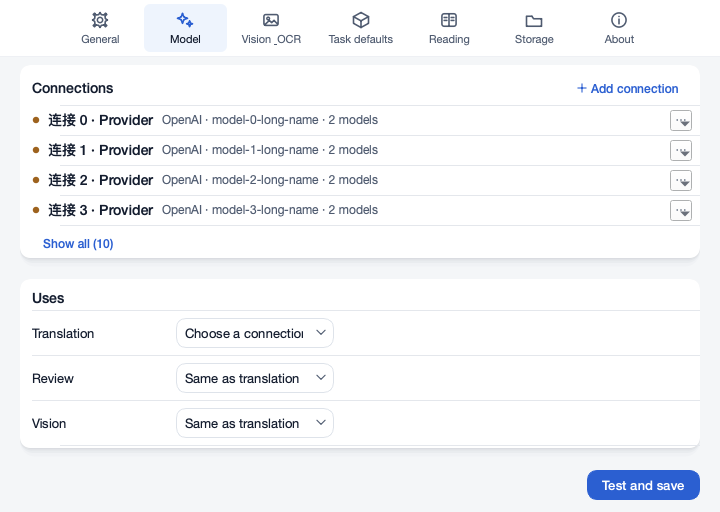
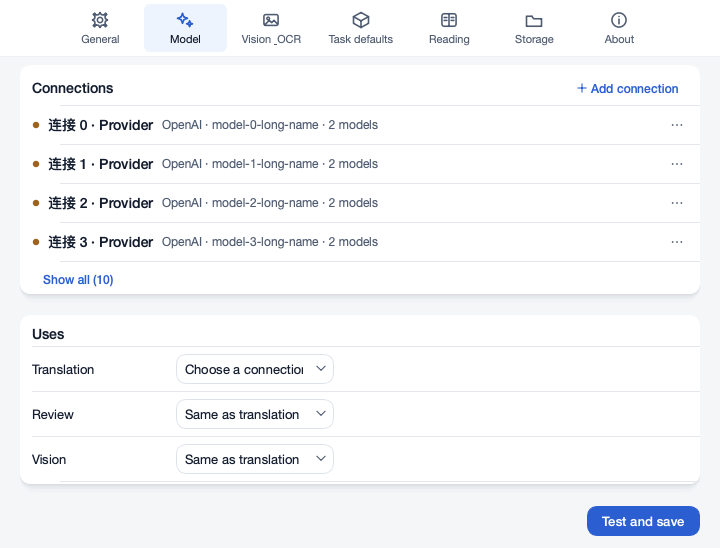
fix(0.8.3): clean connection more button and keep top edge on height change (#533 review)

diff --git a/folith/qt/dialogs.py b/folith/qt/dialogs.py
@@ -169,6 +169,8 @@ class EngineDialog(QDialog):
         self.language_preference = i18n.language()
         self.academic_preference = False
         self._loading = True
+        #: #517：首次显示才居中一次；之后的高度变化只动底边，顶边保持不动。
+        self._centered_once = False
 
         from .settings_pages import AboutPage, ReadingPage, StoragePage
 
@@ -254,8 +256,9 @@ class EngineDialog(QDialog):
         from . import macwindow
 
         macwindow.hide_when_app_inactive(self)
-        # 首次显示时窗口管理器可能已把它放到了靠下的位置；按当前屏幕重新夹一遍。
-        self._clamp_to_screen()
+        # 首次显示时窗口管理器可能已把它放到了靠下的位置：只在这里居中一次。
+        self._clamp_to_screen(recenter=not self._centered_once)
+        self._centered_once = True
         # 页面 sizeHint 要等第一次布局才算得准：构造期 _fit_height 拿到的是旧值，
         # 会按偏矮的内容把窗口定死，「用途」因此要滚动才看得见。布局完成后再量一次。
         QTimer.singleShot(0, self, self._refit_after_show)
@@ -282,13 +285,16 @@ class EngineDialog(QDialog):
         widget = self.stack.currentWidget()
         return next((key for key, page in self.pages.items() if page is widget), "general")
 
-    def _clamp_to_screen(self) -> None:
-        """把整窗（含标题栏）夹进当前屏幕的可用区域并居中。
+    def _clamp_to_screen(self, *, recenter: bool = False) -> None:
+        """把整窗（含标题栏）夹进当前屏幕的可用区域。
 
         `QScreen.availableGeometry()` 已经排除了 macOS 的 Dock / 菜单栏和
         Windows 的任务栏，所以一个跨平台的 Qt 调用就够；共享界面里不写
-        任何平台专属代码（`AGENTS.md`）。主窗口完整落在可用区域内时优先
-        相对它居中，否则退回到可用区域本身居中。
+        任何平台专属代码（`AGENTS.md`）。
+
+        `recenter=True` 只在首次显示时用：相对主窗口（放得下时）或可用区居中。
+        其余情况（尤其高度动画的每一帧）保持顶边/左边不动，只有底边或右边
+        超出可用区时才上推/左移——macOS 设置窗口是顶边固定、往下伸缩的。
         """
         screen = self.screen() or QGuiApplication.primaryScreen()
         if screen is None:
@@ -304,25 +310,32 @@ class EngineDialog(QDialog):
         if (width, height) != (client.width(), client.height()):
             self.resize(width, height)
             frame = self.frameGeometry()
-        parent = self.parentWidget()
-        anchor = parent.frameGeometry() if parent is not None and parent.isVisible() else QRect()
-        if not anchor.isValid() or not area.contains(anchor):
-            anchor = area
-        center = anchor.center()
-        frame_x = center.x() - frame.width() // 2
-        frame_y = center.y() - frame.height() // 2
+        if recenter:
+            parent = self.parentWidget()
+            anchor = parent.frameGeometry() if parent is not None and parent.isVisible() else QRect()
+            if not anchor.isValid() or not area.contains(anchor):
+                anchor = area
+            center = anchor.center()
+            frame_x = center.x() - frame.width() // 2
+            frame_y = center.y() - frame.height() // 2
+        else:
+            frame_x, frame_y = frame.left(), frame.top()
         # right()/bottom() 是闭区间，所以能放下的最靠右/下位置要 +1。
         frame_x = max(area.left(), min(frame_x, area.right() - frame.width() + 1))
         frame_y = max(area.top(), min(frame_y, area.bottom() - frame.height() + 1))
-        # move() 收的是 widget 左上角，frameGeometry() 含装饰：把差值减回去。
-        delta = frame.topLeft() - self.geometry().topLeft()
-        self.move(frame_x - delta.x(), frame_y - delta.y())
+        # move() 对顶层窗口定位的就是整窗（含装饰）左上角；个别平台会差一个
+        # 装饰偏移，按实际 frameGeometry 再校正一次，避免每次夹取都漂移几像素。
+        self.move(frame_x, frame_y)
+        actual = self.frameGeometry().topLeft()
+        if actual.x() != frame_x or actual.y() != frame_y:
+            self.move(self.x() + frame_x - actual.x(), self.y() + frame_y - actual.y())
 
     def _fit_height(self) -> None:
         """窗口高度随当前页的内容伸缩（macOS 设置窗口的行为），不超出屏幕。
 
         `resize()` 从当前顶边往下长：窗口若原本开得靠下，底部（含「测试并保存」）
-        就会被 Dock / 任务栏挡住。所以每次高度变化后都重新夹回可用区域并居中。
+        就会被 Dock / 任务栏挡住。所以每次高度变化后都夹回可用区域；居中只在
+        首次显示做一次，之后顶边不动，避免切换页面时窗口上下跳。
         """
         page = self.stack.currentWidget()
         inner = page.widget() if isinstance(page, QScrollArea) else page

diff --git a/tests/qt_settings_fit_test.py b/tests/qt_settings_fit_test.py
@@ -18,7 +18,7 @@ os.environ.setdefault("QT_QPA_PLATFORM", "offscreen")
 os.environ["FOLITH_QT_NONINTERACTIVE"] = "1"
 
 pytest.importorskip("PySide6")
-from PySide6.QtCore import QRect  # noqa: E402
+from PySide6.QtCore import QRect, Qt  # noqa: E402
 from PySide6.QtWidgets import (QApplication, QHBoxLayout, QLabel, QPushButton,  # noqa: E402
                                QScrollArea, QToolButton)
 
@@ -59,30 +59,57 @@ def _dialog(connections: int = 0) -> dialogs.EngineDialog:
 
 # ------------------------------------------------------------- 几何 ----------
 
-def test_height_change_clamps_the_whole_window_into_available_area(app, monkeypatch):
+def test_height_change_clamps_without_recentering(app, monkeypatch):
+    """未显示时的高度变化只夹回可用区，不提前居中（居中留给首次显示）。"""
     dialog = _dialog(connections=10)
     monkeypatch.setattr(dialog, "screen", lambda: _FakeScreen(AREA))
     try:
-        # 窗口原本开在屏幕下方：resize 往下长会把底部按钮推到 Dock 后面。
         dialog.move(900, 1200)
         dialog.show_page("models")
         app.processEvents()
-        frame = dialog.frameGeometry()
-        assert AREA.contains(frame), (frame, AREA)
-        assert abs(frame.center().x() - AREA.center().x()) <= 2
-        assert abs(frame.center().y() - AREA.center().y()) <= 2
+        assert AREA.contains(dialog.frameGeometry()), dialog.frameGeometry()
+        assert abs(dialog.frameGeometry().center().x() - AREA.center().x()) > 2
     finally:
         dialog.close()
 
 
-def test_first_show_recenters_a_window_opened_below_the_screen(app, monkeypatch):
+def test_first_show_centres_a_window_opened_below_the_screen(app, monkeypatch):
     dialog = _dialog(connections=10)
     monkeypatch.setattr(dialog, "screen", lambda: _FakeScreen(AREA))
     try:
         dialog.move(400, 2000)
         dialog.show()
         app.processEvents()
-        assert AREA.contains(dialog.frameGeometry()), dialog.frameGeometry()
+        frame = dialog.frameGeometry()
+        assert AREA.contains(frame), frame
+        assert abs(frame.center().x() - AREA.center().x()) <= 2
+        assert abs(frame.center().y() - AREA.center().y()) <= 2
+    finally:
+        dialog.close()
+
+
+def test_height_change_keeps_the_top_edge_when_the_screen_fits(app, monkeypatch):
+    """#533 返修：切到更高的页时窗口顶边不动，只有底边往下长。"""
+    dialog = _dialog(connections=0)
+    monkeypatch.setattr(dialog, "screen", lambda: _FakeScreen(AREA))
+    try:
+        dialog.show()
+        app.processEvents()
+        top_before = dialog.frameGeometry().top()
+        height_before = dialog.height()
+        library = dialog.connection_library
+        library.profiles = [
+            {"id": f"c{i}", "name": f"连接 {i}", "provider": "OpenAI",
+             "model": f"model-{i}", "api_key": f"k{i}", "base_url": "",
+             "models": [f"model-{i}"], "custom": False}
+            for i in range(10)
+        ]
+        library.refresh()
+        dialog.show_page("models")
+        app.processEvents()
+        assert dialog.height() > height_before, (height_before, dialog.height())
+        assert dialog.frameGeometry().top() == top_before
+        assert AREA.contains(dialog.frameGeometry())
     finally:
         dialog.close()
 
@@ -142,6 +169,10 @@ def test_connection_rows_use_one_line_and_a_row_menu(app):
             assert actions is not None and actions.menu() is not None
             labels = [action.text() for action in actions.menu().actions()]
             assert "编辑" in labels and "删除" in labels
+            # #533 返修：干净的 more 图标按钮，不叠下拉箭头、不带文字。
+            assert actions.objectName() == "iconButton"
+            assert actions.toolButtonStyle() == Qt.ToolButtonStyle.ToolButtonIconOnly
+            assert not actions.text()
     finally:
         dialog.close()
 

diff --git a/folith/qt/connection_library.py b/folith/qt/connection_library.py
@@ -564,9 +564,12 @@ class ConnectionLibrary(QWidget):
         row.addWidget(state, 0, Qt.AlignmentFlag.AlignVCenter)
         # 编辑 / 删除收进「⋯」：一行里不再摆两个整按钮（#517）。
         actions = QToolButton()
-        actions.setIcon(icons.icon("more", 14, "text-secondary"))
-        actions.setIconSize(QSize(14, 14))
-        actions.setAccessibleName(i18n.tr('连接操作'))
+        actions.setObjectName("iconButton")   # 与行内图标按钮同款：无边框，且 QSS 去掉菜单箭头
+        actions.setToolButtonStyle(Qt.ToolButtonStyle.ToolButtonIconOnly)
+        actions.setIcon(icons.icon("more", 16, "text-secondary"))
+        actions.setIconSize(QSize(16, 16))
+        actions.setCursor(Qt.CursorShape.PointingHandCursor)
+        actions.setAccessibleName(i18n.tr('{v0} 的更多操作', v0=p["name"]))
         actions.setToolTip(i18n.tr('连接操作'))
         actions.setPopupMode(QToolButton.ToolButtonPopupMode.InstantPopup)
         menu = QMenu(actions)

diff --git a/docs/evidence/0.8.3-c517-settings-fit.md b/docs/evidence/0.8.3-c517-settings-fit.md
@@ -53,6 +53,17 @@ QT_QPA_PLATFORM=offscreen venv/bin/python -m pytest \
 原先断言「保存按钮在页内」，与本次「操作固定到页外」的意图冲突，已更新为断言页内没有保存
 按钮、且唯一保存按钮在 `_pinned_actions` 内；该文件 68 passed。
 
+## C-2 返修（监工 2026-11-19 08:23 核对）
+
+1. **「⋯」按钮**：改用主题里已有的 `QToolButton#iconButton` 样式（与交付面板的更多操作同款），
+   `ToolButtonIconOnly` + 16px more 图标 + `InstantPopup`；QSS 已去掉菜单指示箭头和边框。
+   亮/暗截图已重拍，见上表。此项无新增 locale 字符串（复用了既有的 `{v0} 的更多操作` / `连接操作`）。
+2. **高度动画顶边跳动**：`_clamp_to_screen(recenter=True)` 只在首次显示调用一次；其余
+   （含动画每一帧）保持顶边/左边不动，只有底/右超出可用区时才上推/左移。`move()` 直接定位
+   整窗左上角，并按实际 `frameGeometry()` 校正一次，消除每次夹取漂移几像素的问题。
+   新增用例：未显示时夹取不居中、首次显示居中、切到更高页顶边 y 不变、行操作是干净的图标按钮。
+   同一组用例在返修前实现上 **3 failed / 4 passed**，恢复后 sha256 一致。
+
 ## 局限
 
 offscreen 截图测不到 macOS 真 Cocoa 标题栏、Dock 实际遮挡和 Windows 任务栏 / 100%、
